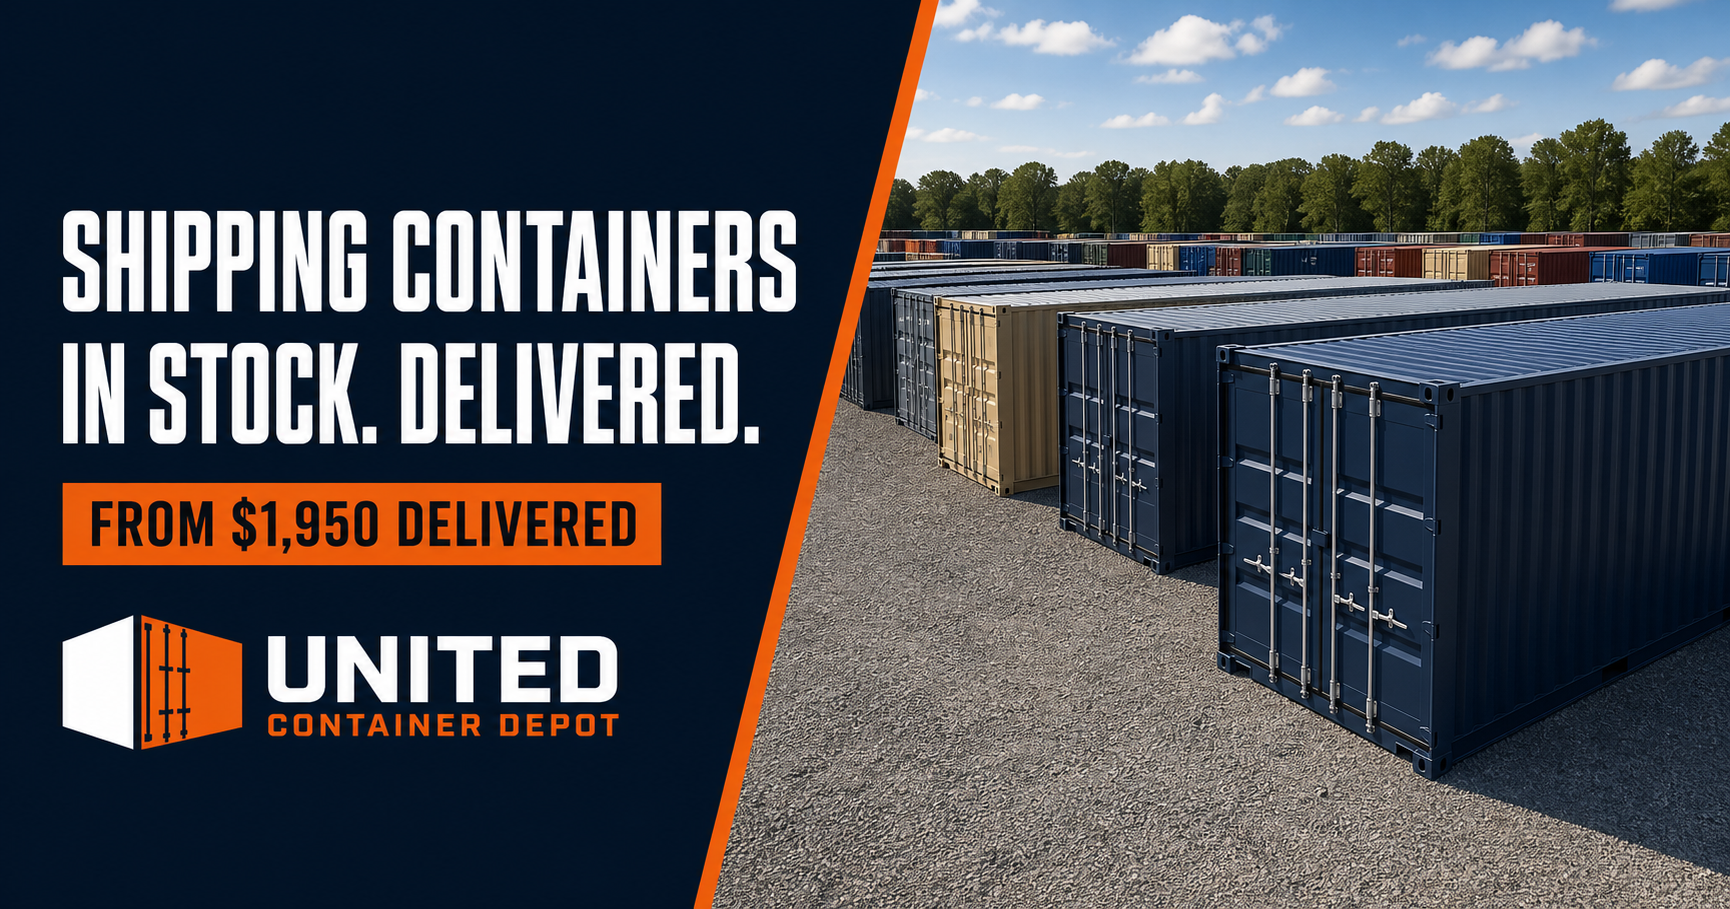
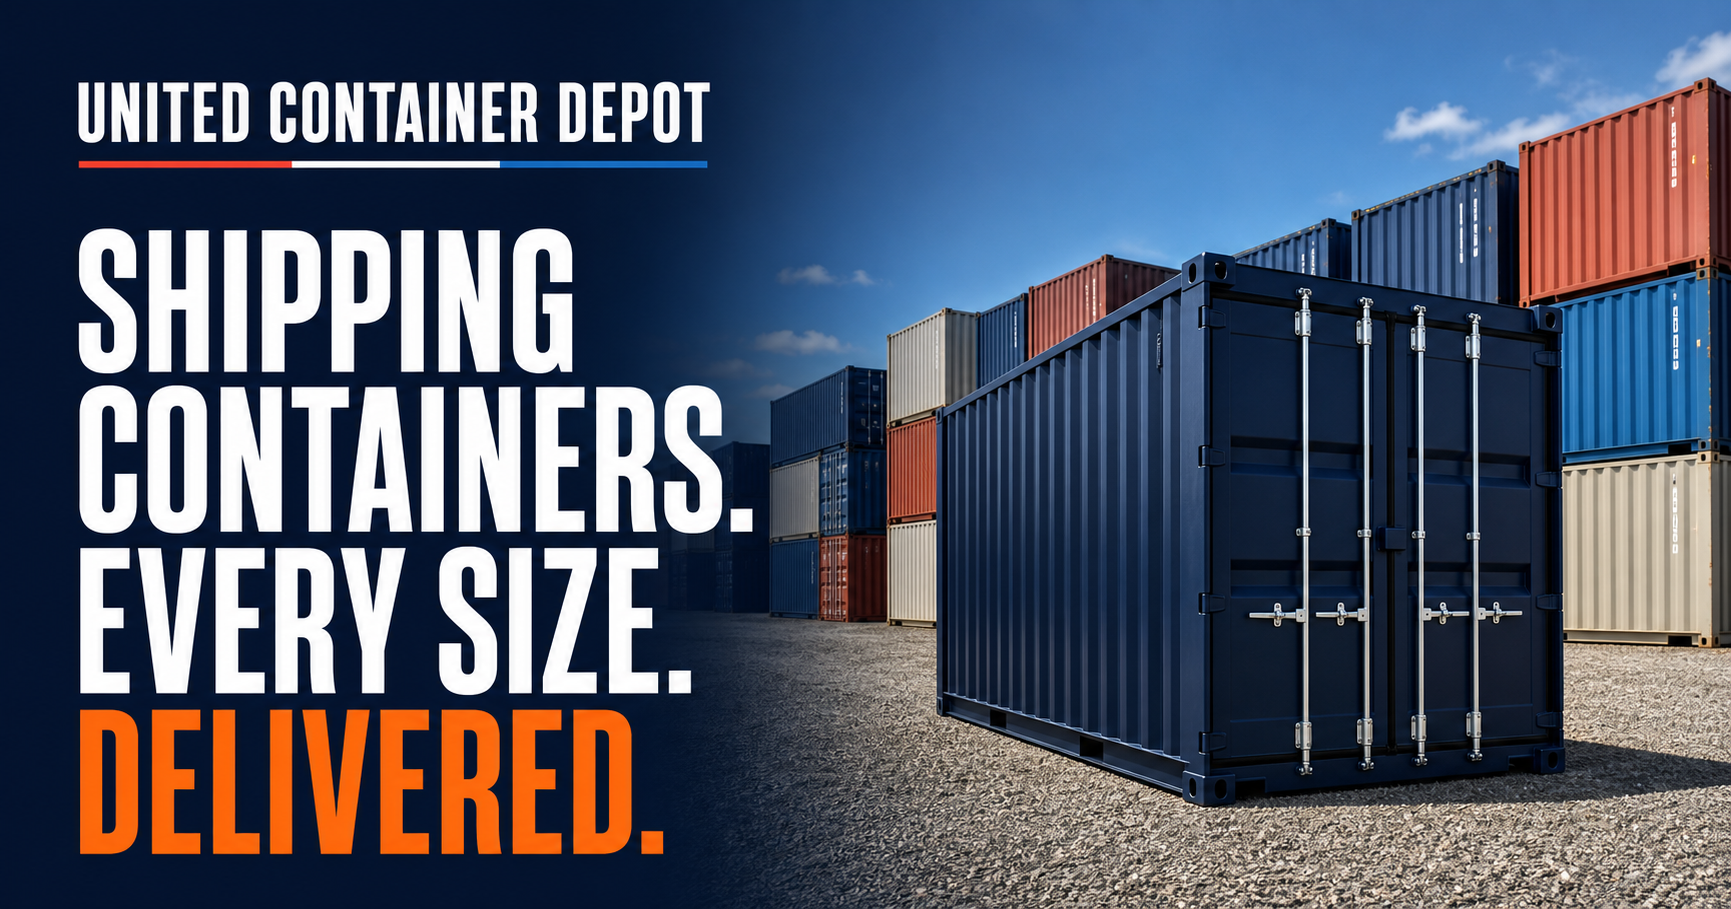
Add five buyer-specific container verticals

diff --git a/app/verticals.ts b/app/verticals.ts
@@ -106,4 +106,155 @@ const business: Vertical = {
   ],
 };
 
-export const verticals: Record<string, Vertical> = { construction, farm, agriculture: farm, business, commercial: business };
+const moving: Vertical = {
+  key: "moving", nav: "Moving & Relocation", eyebrow: "Storage that moves at your pace", title: "Pack once.", emphasis: "Move without the rush.",
+  lead: "Own secure space for the weeks between packing, closing and settling in. Load household belongings on your schedule and keep them close until the next step is ready.", hero: "/moving-hero.png", featureImage: "/moving-feature.png", context: "Residential moving and relocation storage",
+  gallery: [
+    { image: "/moving-hero.png", alt: "Twenty foot shipping container holding household furniture and boxes beside a suburban home", caption: "Pack beside the house on your schedule" },
+    { image: "/moving-gallery-1.png", alt: "Household belongings being unloaded through the short-end doors of a shipping container", caption: "Unload at the new home without the rush" },
+    { image: "/moving-gallery-2.png", alt: "Boxes furniture and moving blankets secured inside a standard shipping container", caption: "Keep one organized load between closings" },
+  ],
+  benefitsTitle: "More control between one front door and the next.",
+  benefits: [
+    { title: "Pack at your pace", text: "Stage boxes and furniture over days instead of forcing the whole move into one exhausting weekend." },
+    { title: "Cut double handling", text: "Keep belongings in one secure steel space instead of moving everything through an off-site storage unit." },
+    { title: "Bridge the timing gap", text: "Create useful capacity when the old home, new home and closing dates do not line up cleanly." },
+  ],
+  applications: ["Household furniture", "Moving boxes and books", "Garage tools", "Bicycles and outdoor gear", "Seasonal belongings", "Appliances and fixtures"],
+  testimonials: [
+    { quote: "We packed room by room instead of doing everything in one weekend.", person: "Laura M., Homeowner" },
+    { quote: "The furniture stayed together while our closing date moved.", person: "Kevin D., Home Buyer" },
+    { quote: "One container gave us breathing room between both houses.", person: "Erin S., Relocating Family" },
+  ],
+  faq: [
+    { q: "Can it be placed in my driveway?", a: "Often, yes. The driveway must be firm, level and accessible to a tilt-bed delivery truck. We review clearance, slope and turning room before scheduling." },
+    { q: "Will you move the loaded container to my new home?", a: "We sell and deliver the container. Transporting it after loading requires a qualified container carrier and suitable access at both properties. Ask your specialist about the options available in your area before purchase." },
+    { q: "Which size works for a household move?", a: "A 20FT unit is easier to place and suits many smaller homes. A 40FT unit provides more capacity for larger households, furniture and garage contents." },
+  ],
+};
+
+const renovation: Vertical = {
+  key: "renovation", nav: "Renovation", eyebrow: "Clear the rooms without losing the space", title: "Move it out.", emphasis: "Keep the project moving.",
+  lead: "Protect furniture, fixtures and household contents from dust, traffic and accidental damage while renovation or restoration work happens inside your home.", hero: "/renovation-hero.png", featureImage: "/renovation-feature.png", context: "Home renovation and restoration storage",
+  gallery: [
+    { image: "/renovation-hero.png", alt: "Standard shipping container beside a home renovation with wrapped household furniture nearby", caption: "Create working room before the crew starts" },
+    { image: "/renovation-gallery-1.png", alt: "Wrapped furniture cabinets rugs and boxes stored inside a container beside a renovated home", caption: "Keep household contents away from dust" },
+    { image: "/renovation-gallery-2.png", alt: "Dry protected furniture and artwork stored during home restoration", caption: "Protect what matters while the home recovers" },
+  ],
+  benefitsTitle: "Give the work room without sending your belongings away.",
+  benefits: [
+    { title: "Clear the work zone", text: "Move furniture and boxed contents out of active rooms so trades can work safely and efficiently." },
+    { title: "Keep belongings close", text: "Access fixtures, appliances and household items on your property instead of driving to storage." },
+    { title: "Protect from job-site traffic", text: "Lockable steel separates your belongings from dust, foot traffic and the daily movement of materials." },
+  ],
+  applications: ["Furniture and rugs", "Cabinets and fixtures", "Boxed household contents", "Appliances", "Artwork and mirrors", "Restoration salvage"],
+  testimonials: [
+    { quote: "The first floor was empty before demolition started.", person: "Mark T., Homeowner" },
+    { quote: "Everything stayed on the property and out of the dust.", person: "Dana P., Renovation Client" },
+    { quote: "We could retrieve fixtures whenever the contractor needed them.", person: "Helen W., Property Owner" },
+  ],
+  faq: [
+    { q: "How quickly can storage arrive for an urgent restoration?", a: "Most deliveries are scheduled within 5 to 10 days after inventory and access are confirmed. Tell us if the project is urgent so we can check the closest available unit." },
+    { q: "Can it sit beside the house during construction?", a: "Often, yes, when the surface is firm and level and the truck has a clear approach. Confirm local permit, neighborhood and property rules before delivery." },
+    { q: "How should furniture be stored?", a: "Keep items dry before loading, use breathable furniture covers, raise sensitive contents off the floor and leave airflow around the load. Ask about vents when storage will span changing seasons." },
+  ],
+};
+
+const vehicles: Vertical = {
+  key: "vehicles", nav: "Vehicles & Recreation", eyebrow: "Secure space for the machines you keep", title: "Free your garage.", emphasis: "Protect the good stuff.",
+  lead: "Create lockable storage for classic cars, motorcycles, ATVs and recreational equipment beside your home, workshop or acreage.", hero: "/vehicles-hero.png", featureImage: "/vehicles-feature.png", context: "Vehicle and recreational equipment storage",
+  gallery: [
+    { image: "/vehicles-hero.png", alt: "Classic car and motorcycle stored through the short-end doors of a forty foot container beside a workshop", caption: "Keep the classic car beside your workshop" },
+    { image: "/vehicles-gallery-1.png", alt: "Motorcycles ATV helmets and riding gear inside a twenty foot shipping container", caption: "Lock up motorcycles, ATVs and riding gear" },
+    { image: "/vehicles-gallery-2.png", alt: "Kayaks bikes camping gear and a snowmobile stored inside a shipping container beside a lakeside garage", caption: "Organize four seasons of recreation" },
+  ],
+  benefitsTitle: "A steel garage for the equipment you would rather keep.",
+  benefits: [
+    { title: "Put a lock around it", text: "Steel cargo doors and a lockbox help protect vehicles, trailers and high-value gear after use." },
+    { title: "Take back the garage", text: "Move seasonal machines and bulky recreation equipment out of everyday household space." },
+    { title: "Keep gear together", text: "Store helmets, covers, parts, tools and accessories beside the vehicle they belong to." },
+  ],
+  applications: ["Classic cars", "Motorcycles", "ATVs and dirt bikes", "Kayaks and paddleboards", "Bicycles", "Camping and snow gear"],
+  testimonials: [
+    { quote: "The classic car and parts finally have one secure place.", person: "Rick A., Collector" },
+    { quote: "Motorcycles, helmets and stands are together and locked up.", person: "Jordan C., Rider" },
+    { quote: "We got the garage back without selling the toys.", person: "Ben L., Homeowner" },
+  ],
+  faq: [
+    { q: "Will my car fit through the cargo doors?", a: "Many cars fit inside a standard container, but width, height, mirrors and safe driver exit must be checked first. Send us the vehicle dimensions before choosing a unit." },
+    { q: "What should I plan for vehicle storage?", a: "Use a suitable loading ramp, tire stops and tie-down points. Plan for ventilation and moisture control, and follow local fire rules for fuel, batteries and motorized equipment." },
+    { q: "Is 20FT or 40FT better?", a: "A 20FT unit can suit one compact vehicle or several motorcycles. A 40FT unit gives more working room for a car, accessories and recreational equipment." },
+  ],
+};
+
+const events: Vertical = {
+  key: "events", nav: "Events & Production", eyebrow: "Storage ready for the next load-in", title: "Store the show.", emphasis: "Be ready to roll.",
+  lead: "Keep road cases, staging, tents, barriers and production equipment organized beside the venue, studio or temporary project site.", hero: "/events-hero.png", featureImage: "/events-feature.png", context: "Event media and temporary project storage",
+  gallery: [
+    { image: "/events-hero.png", alt: "Road cases lighting stands and barriers stored in a twenty foot container behind a concert venue", caption: "Keep production gear behind the venue" },
+    { image: "/events-gallery-1.png", alt: "Camera cases lighting stands and production equipment inside a container on a film studio backlot", caption: "Stage media equipment near the next call" },
+    { image: "/events-gallery-2.png", alt: "Tents chairs barriers and portable flooring organized in a container at a community festival", caption: "Turn event inventory into a repeatable system" },
+  ],
+  benefitsTitle: "Load in faster. Lock down cleaner. Reset for the next date.",
+  benefits: [
+    { title: "Keep the kit together", text: "Organize cases, cable, staging and temporary infrastructure by production instead of by warehouse shelf." },
+    { title: "Secure the dark hours", text: "Lock valuable equipment beside the venue or project site when the crew is off the clock." },
+    { title: "Scale around the calendar", text: "Add owned capacity for festival season, touring inventory, film work or recurring public events." },
+  ],
+  applications: ["Road cases", "Audio and lighting", "Tents and staging", "Barriers and flooring", "Props and backdrops", "Temporary project supplies"],
+  testimonials: [
+    { quote: "Cases and cable stay sorted between load-ins.", person: "Alex N., Production Manager" },
+    { quote: "The festival kit is ready in one place every season.", person: "Morgan J., Event Director" },
+    { quote: "We stopped rebuilding the same temporary storage every shoot.", person: "Sam R., Location Producer" },
+  ],
+  faq: [
+    { q: "Can it be placed behind a venue or studio?", a: "Often, yes, when the service area has a firm level surface, clear fire access and enough room for the delivery truck. The venue or site manager should approve placement first." },
+    { q: "Can you add shelving, lighting or power?", a: "Yes. Ask about shelving, electrical packages, lighting, vents, personnel doors and other modifications for production inventory." },
+    { q: "Do you rent for one event?", a: "We focus on direct sales. Buying is designed for organizations with recurring events, seasonal programs or ongoing temporary projects that need dependable capacity." },
+  ],
+};
+
+const institutions: Vertical = {
+  key: "institutions", nav: "Schools & Institutions", eyebrow: "Flexible capacity for public operations", title: "Space on site.", emphasis: "Programs stay moving.",
+  lead: "Add secure storage for furniture, athletics, events, facilities and emergency supplies at schools, universities, municipalities and public organizations.", hero: "/institutions-hero.png", featureImage: "/institutions-feature.png", context: "Institutional and public sector storage",
+  gallery: [
+    { image: "/institutions-hero.png", alt: "Athletic equipment tables and event supplies inside a forty foot container beside a school facilities building", caption: "Place capacity beside campus operations" },
+    { image: "/institutions-gallery-1.png", alt: "Dorm furniture and move bins stored in a forty foot container at a university residence hall", caption: "Handle turnover without crowding buildings" },
+    { image: "/institutions-gallery-2.png", alt: "Emergency supplies barriers pumps and maintenance equipment stored beside a municipal operations building", caption: "Keep public works equipment ready" },
+  ],
+  benefitsTitle: "Useful capacity without another permanent building.",
+  benefits: [
+    { title: "Support changing programs", text: "Create room for summer turnover, athletics, events, renovations and seasonal facilities work." },
+    { title: "Keep assets accountable", text: "Centralize furniture, supplies and equipment in a lockable location managed by the responsible department." },
+    { title: "Plan around real budgets", text: "Buy a durable asset with a clear delivered price instead of adding another recurring storage bill." },
+  ],
+  applications: ["Campus furniture", "Athletic equipment", "Event supplies", "Facilities equipment", "Records and surplus", "Emergency supplies"],
+  testimonials: [
+    { quote: "Summer turnover equipment is organized beside the residence hall.", person: "Pat G., Campus Facilities" },
+    { quote: "Tables, barriers and event supplies finally have one owner and one location.", person: "Mia K., School Operations" },
+    { quote: "The written quote made the scope and delivery cost easy to review.", person: "James E., Public Works Buyer" },
+  ],
+  faq: [
+    { q: "Can you provide a written quote for procurement?", a: "Yes. We can prepare a written quote that identifies container size, condition, available inventory and delivery. Tell us about any vendor registration or purchase-order requirements at the start." },
+    { q: "Where should a campus container be placed?", a: "Use a firm level service area with controlled access that preserves fire lanes, pedestrian routes and emergency access. Facilities and local authorities should approve the location." },
+    { q: "Can the interior be configured by department?", a: "Yes. Shelving, lighting, vents, electrical packages and access options can support facilities, athletics, events, records or emergency inventory." },
+  ],
+};
+
+export const verticals: Record<string, Vertical> = {
+  construction,
+  farm,
+  agriculture: farm,
+  business,
+  commercial: business,
+  moving,
+  relocation: moving,
+  renovation,
+  restoration: renovation,
+  vehicles,
+  recreation: vehicles,
+  events,
+  production: events,
+  institutions,
+  schools: institutions,
+};

diff --git a/app/layout.tsx b/app/layout.tsx
@@ -15,25 +15,28 @@ const body = Source_Sans_3({
 });
 
 export const metadata: Metadata = {
-  metadataBase: new URL("https://unitedcontainerdepot.com"),
+  metadataBase: new URL("https://juliusgloeckner-gif.github.io/container-depot-showcase/"),
   title: {
     default: "Shipping Containers for Sale | United Container Depot",
     template: "%s | United Container Depot",
   },
   description:
     "Affordable new and used shipping containers delivered across the continental United States. Get a clear delivered price with no hidden fees.",
-  icons: { icon: "/favicon.svg", shortcut: "/favicon.svg" },
+  icons: {
+    icon: "https://juliusgloeckner-gif.github.io/container-depot-showcase/favicon.svg",
+    shortcut: "https://juliusgloeckner-gif.github.io/container-depot-showcase/favicon.svg",
+  },
   openGraph: {
     type: "website",
-    title: "Shipping Containers. In Stock. Delivered.",
-    description: "Affordable new and used shipping containers delivered across 48 states.",
-    images: [{ url: "/og.png", width: 1200, height: 630, alt: "United Container Depot shipping containers in stock and delivered" }],
+    title: "Shipping Containers. Every Size. Delivered.",
+    description: "Affordable new and used containers for eight real-world storage needs, delivered across 48 states.",
+    images: [{ url: "https://juliusgloeckner-gif.github.io/container-depot-showcase/og.png", width: 1200, height: 630, alt: "United Container Depot shipping containers in every size and delivered" }],
   },
   twitter: {
     card: "summary_large_image",
-    title: "Shipping Containers. In Stock. Delivered.",
-    description: "Affordable new and used shipping containers delivered across 48 states.",
-    images: ["/og.png"],
+    title: "Shipping Containers. Every Size. Delivered.",
+    description: "Affordable new and used containers for eight real-world storage needs, delivered across 48 states.",
+    images: ["https://juliusgloeckner-gif.github.io/container-depot-showcase/og.png"],
   },
 };
 

diff --git a/app/page.tsx b/app/page.tsx
@@ -11,9 +11,14 @@ const inventory = [
 ];
 
 const uses = [
-  { title: "Construction sites", text: "Lock up tools, materials and equipment directly on the job site.", href: "/construction", image: "/hero-construction.jpg", cta: "Construction storage" },
-  { title: "Farms and ranches", text: "Keep feed, seed, fencing supplies and tools dry, organized and beside the barn.", href: "/farm", image: "/farm-storage-real.png", cta: "Farm storage" },
-  { title: "Business overflow", text: "Put inventory, furniture, records and seasonal stock beside your premises.", href: "/business", image: "/business-overflow.png", cta: "Business storage" },
+  { title: "Construction", text: "Lock up tools, materials and equipment directly on the job site.", href: "/construction", image: "/hero-construction.jpg", cta: "Job site storage" },
+  { title: "Farm", text: "Keep feed, fencing, tools and seasonal equipment dry beside the barn.", href: "/farm", image: "/farm-storage-real.png", cta: "Farm storage" },
+  { title: "Business overflow", text: "Put inventory, furniture and seasonal stock beside your premises.", href: "/business", image: "/business-overflow.png", cta: "Business storage" },
+  { title: "Moving & relocation", text: "Pack household belongings at your pace and bridge the gap between homes.", href: "/moving", image: "/moving-hero.png", cta: "Moving storage" },
+  { title: "Renovation storage", text: "Clear the work zone and protect furniture, fixtures and household contents.", href: "/renovation", image: "/renovation-hero.png", cta: "Renovation storage" },
+  { title: "Vehicles & recreation", text: "Secure classic cars, motorcycles, ATVs and four seasons of gear.", href: "/vehicles", image: "/vehicles-hero.png", cta: "Vehicle storage" },
+  { title: "Events & production", text: "Keep cases, staging, tents and production equipment ready for load-in.", href: "/events", image: "/events-hero.png", cta: "Production storage" },
+  { title: "Schools & institutions", text: "Add capacity for furniture, athletics, events, facilities and public operations.", href: "/institutions", image: "/institutions-hero.png", cta: "Institutional storage" },
 ];
 
 export default function Home() {
@@ -54,16 +59,16 @@ export default function Home() {
       <section className="section dark-section industry-first" id="industries">
         <div className="wrap">
           <div className="section-heading split-heading light-heading">
-            <div><span className="eyebrow">Choose your operation</span><h2>A container page built for your exact use.</h2></div>
-            <p>These are dedicated landing pages, not general information pages. Each one speaks directly to the storage problems, buying priorities and delivery realities of that buyer.</p>
+            <div><span className="eyebrow">Find your use</span><h2>One container specialist. Eight buyer-specific pages.</h2></div>
+            <p>The homepage stays simple: we sell containers. These pages go deeper into the storage problems, buying priorities and delivery realities of each buyer.</p>
           </div>
           <div className="use-grid">
             {uses.map((use, index) => (
               <Link className="use-card" href={use.href} key={use.title}>
                 <Image src={use.image} alt={`${use.title} shipping container storage`} fill sizes="(max-width: 760px) 100vw, 33vw" />
                 <span className="use-shade" />
-                <span className="use-index">0{index + 1}</span>
-                <span className="use-copy"><strong>{use.title}</strong><span>{use.text}</span><b>Open {use.cta} page →</b></span>
+                <span className="use-index">{String(index + 1).padStart(2, "0")}</span>
+                <span className="use-copy"><strong>{use.title}</strong><span>{use.text}</span><b>View buyer page →</b></span>
               </Link>
             ))}
           </div>

diff --git a/app/globals.css b/app/globals.css
@@ -91,15 +91,15 @@ input:focus,select:focus { outline:3px solid rgba(242,106,24,.24); border-color:
 .price-note { font-size:.8rem; color:var(--muted); margin:18px 0 0; }
 .dark-section { background:var(--navy); color:#fff; }
 .light-heading p { color:#becbd6; }
-.use-grid { display:grid; grid-template-columns:repeat(3, 1fr); gap:18px; }
-.use-card { position:relative; height:430px; overflow:hidden; }
+.use-grid { display:grid; grid-template-columns:repeat(4, 1fr); gap:18px; }
+.use-card { position:relative; height:380px; overflow:hidden; }
 .use-card img { transition:transform .4s ease; }
 .use-card:hover img { transform:scale(1.035); }
 .use-shade { position:absolute; inset:0; background:rgba(4,13,23,.45); border-bottom:7px solid var(--orange); }
 .industry-first { border-top:7px solid var(--orange); }
 .use-index { position:absolute; top:22px; right:24px; z-index:2; color:#fff; font-family:var(--font-heading); font-size:1.4rem; font-weight:800; letter-spacing:.08em; border-bottom:3px solid var(--orange); }
-.use-copy { position:absolute; inset:auto 0 0; padding:30px; display:flex; flex-direction:column; align-items:flex-start; }
-.use-copy strong { font-family:var(--font-heading); text-transform:uppercase; font-size:2rem; line-height:1; }
+.use-copy { position:absolute; inset:auto 0 0; padding:25px; display:flex; flex-direction:column; align-items:flex-start; }
+.use-copy strong { font-family:var(--font-heading); text-transform:uppercase; font-size:1.55rem; line-height:1.02; }
 .use-copy>span { color:#e4ebf1; margin:10px 0 18px; }
 .use-copy b { color:#fff; background:var(--orange); padding:8px 10px 6px; font-size:.78rem; text-transform:uppercase; letter-spacing:.06em; }
 .application-grid { display:grid; grid-template-columns:1.05fr .95fr; gap:80px; align-items:center; }
@@ -162,6 +162,12 @@ blockquote { margin:0; }
 .vertical-business .hero-grid { grid-template-columns:minmax(410px,.72fr) minmax(0,1.08fr); }
 .vertical-business .hero-copy { grid-column:2; grid-row:1; }
 .vertical-business .quote-form { grid-column:1; grid-row:1; }
+.vertical-moving .hero-overlay,.vertical-renovation .hero-overlay,.vertical-vehicles .hero-overlay,.vertical-events .hero-overlay,.vertical-institutions .hero-overlay { background:linear-gradient(90deg,rgba(3,12,23,.60) 0%,rgba(3,12,23,.39) 55%,rgba(3,12,23,.58) 100%); }
+.vertical-moving .hero-background { object-position:center; }
+.vertical-renovation .hero-background { object-position:center; }
+.vertical-vehicles .hero-background { object-position:center; }
+.vertical-events .hero-background { object-position:center; }
+.vertical-institutions .hero-background { object-position:center; }
 .benefit-grid { display:grid; grid-template-columns:repeat(3,1fr); gap:18px; }
 .benefit-grid article { background:var(--cream); border-top:5px solid var(--navy); padding:34px; }
 .benefit-grid b { color:var(--orange); font-family:var(--font-heading); font-size:1.15rem; }
@@ -204,6 +210,7 @@ blockquote { margin:0; }
   nav { display:none; }
   .hero-grid { grid-template-columns:1fr 400px; gap:30px; }
   .inventory-grid { grid-template-columns:1fr 1fr; }
+  .use-grid { grid-template-columns:1fr 1fr; }
   .inventory-body p { min-height:auto; }
   .footer-grid { grid-template-columns:1.5fr 1fr 1fr; }
   .footer-grid>div:last-child { grid-column:1 / -1; }

diff --git a/app/SiteShell.tsx b/app/SiteShell.tsx
@@ -18,9 +18,7 @@ export function Header() {
           </Link>
           <nav aria-label="Main navigation">
             <Link href="/#inventory">Containers</Link>
-            <Link href="/construction">Construction</Link>
-            <Link href="/farm">Farm</Link>
-            <Link href="/business">Business</Link>
+            <Link href="/#industries">Storage uses</Link>
           </nav>
           <div className="nav-actions">
             <a className="phone" href="tel:[phone redacted]">[phone redacted]</a>
@@ -49,10 +47,15 @@ export function Footer() {
           <Link href="/#inventory">Custom Modified</Link>
         </div>
         <div>
-          <h3>Built for</h3>
+          <h3>Storage uses</h3>
           <Link href="/construction">Construction sites</Link>
           <Link href="/farm">Farms and ranches</Link>
           <Link href="/business">Business overflow</Link>
+          <Link href="/moving">Moving and relocation</Link>
+          <Link href="/renovation">Renovation storage</Link>
+          <Link href="/vehicles">Vehicles and recreation</Link>
+          <Link href="/events">Events and production</Link>
+          <Link href="/institutions">Schools and institutions</Link>
         </div>
         <div>
           <h3>Company</h3>